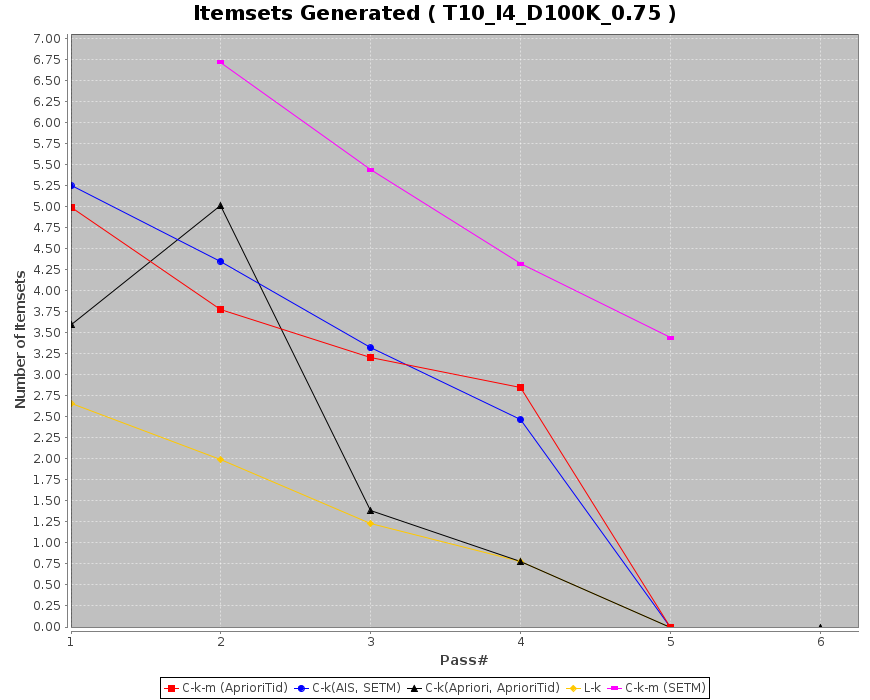
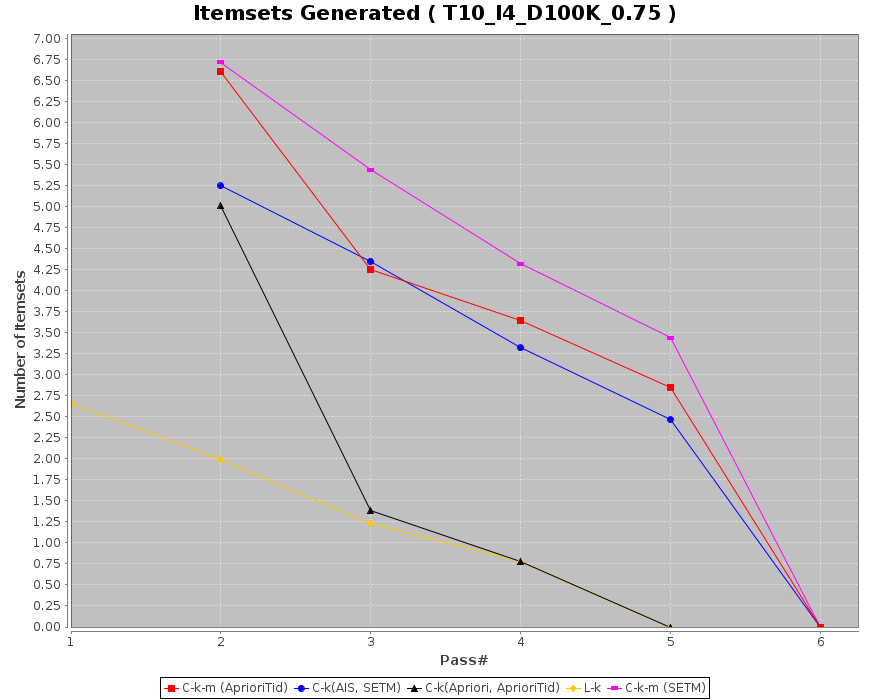
1) Added support for processing large datasets flattening. 2) New correct graphs for number of itemsets generated for varius algorithms.

diff --git a/src/GraphGenerator.java b/src/GraphGenerator.java
@@ -55,7 +55,6 @@ public class GraphGenerator {
 		largeItemsetsMap.put(5, 0);
 
 		Map<Integer, Integer> candAprioriAndTID = Maps.newHashMap();
-		candAprioriAndTID.put(1, 4000);
 		candAprioriAndTID.put(2, 101926);
 		candAprioriAndTID.put(3, 24);
 		candAprioriAndTID.put(4, 6);
@@ -63,24 +62,25 @@ public class GraphGenerator {
 		candAprioriAndTID.put(6, 0);
 
 		Map<Integer, Integer> candAISSETMMap = Maps.newHashMap();
-		candAISSETMMap.put(1, 176764);
-		candAISSETMMap.put(2, 22459);
-		candAISSETMMap.put(3, 2089);
-		candAISSETMMap.put(4, 293);
-		candAISSETMMap.put(5, 0);
+		candAISSETMMap.put(2, 176764);
+		candAISSETMMap.put(3, 22459);
+		candAISSETMMap.put(4, 2089);
+		candAISSETMMap.put(5, 293);
+		candAISSETMMap.put(6, 0);
 
 		Map<Integer, Integer> candBarAprioriTID = Maps.newHashMap();
-		candBarAprioriTID.put(1, 98062);
-		candBarAprioriTID.put(2, 5953);
-		candBarAprioriTID.put(3, 1624);
-		candBarAprioriTID.put(4, 707);
-		candBarAprioriTID.put(5, 0);
+		candBarAprioriTID.put(2, 3990440);
+		candBarAprioriTID.put(3, 17629);
+		candBarAprioriTID.put(4, 4456);
+		candBarAprioriTID.put(5, 707);
+		candBarAprioriTID.put(6, 0);
 
 		Map<Integer, Integer> candBarSETM = Maps.newHashMap();
 		candBarSETM.put(2, 5213187);
 		candBarSETM.put(3, 274419);
 		candBarSETM.put(4, 21011);
 		candBarSETM.put(5, 2742);
+		candBarSETM.put(6, 0);
 		
 		itemsetsSizeMap.put("L-k", largeItemsetsMap);
 		itemsetsSizeMap.put("C-k(Apriori, AprioriTid)", candAprioriAndTID);

diff --git a/src/bootstrap/FilePreProcessorUtils.java b/src/bootstrap/FilePreProcessorUtils.java
@@ -20,10 +20,10 @@ import com.google.common.collect.Maps;
  */
 public class FilePreProcessorUtils {
 
-	private static String inputFileLoc = "/home/shishir/DMProject/resources/synthetic_data_generator/T5.I2.D10000K.raw";//args[0]; // Complete source file path as input
-	private static String outputFileLoc = "/home/shishir/workspace/DMProject/data/T5.I2.D10000K"; //args[1]; // Complete destination file path as input
+	private static String inputFileLoc = "/home/shishir/DMProject/resources/synthetic_data_generator/T20.I6.D10000K.raw";//args[0]; // Complete source file path as input
+	private static String outputFileLoc = "/home/shishir/workspace/DMProject/data/T20.I6.D10000K"; //args[1]; // Complete destination file path as input
 
-	private static int batchWriteThreshold = 5000;
+	private static int batchWriteThreshold = 10000;
 	
 	public static void main(String[] args) throws IOException{
 		readAndBatchWriteTxnLines(inputFileLoc);

diff --git a/src/algos/AprioriTid.java b/src/algos/AprioriTid.java
@@ -42,7 +42,7 @@ public class AprioriTid {
 	
 	public static void main(String[] args)
 	{
-		runExperiment(Dataset.T5_I2_D100K, MinSup.POINT_TWO_FIVE_PERCENT);
+		runExperiment(Dataset.T10_I4_D100K, MinSup.POINT_SEVEN_FIVE_PERCENT);
 	}
 	
 	/* 
@@ -184,7 +184,11 @@ public class AprioriTid {
 			}
 
 			candidateItemsetsCountPerPass.add(candidateItemsets[k].getItemsets().length);
-			candidateItemsetsBarCountPerPass.add(candidateItemsetBars[k].getItemsetbars().size());
+			int numCandSetsInItemsetBar = 0;
+			for(ItemSetBar itemsetbar : candidateItemsetBars[k].getItemsetbars()) {
+				numCandSetsInItemsetBar += itemsetbar.getCandidateItemsetId().size();
+			}
+			candidateItemsetsBarCountPerPass.add(numCandSetsInItemsetBar);
 		}
 		
 		try {

diff --git a/src/algos/AIS.java b/src/algos/AIS.java
@@ -30,7 +30,7 @@ public class AIS {
 
 	public static void main(String[] args)
 	{
-		runExperiment(Dataset.T5_I2_D100K, MinSup.POINT_TWO_FIVE_PERCENT);
+		runExperiment(Dataset.T10_I4_D100K, MinSup.POINT_SEVEN_FIVE_PERCENT);
 	}
 
 	/*
@@ -74,7 +74,7 @@ public class AIS {
 		List<ItemSet> largeItemsets = MiningUtils.getInitialLargeItemsets(reader, minSupportCount);
 
 		int currItemsetSize = 1;
-	
+		
 		while(!largeItemsets.isEmpty()) {
 			// Write large itemsets to file
 			try {

diff --git a/src/algos/Apriori.java b/src/algos/Apriori.java
@@ -41,7 +41,7 @@ public class Apriori {
 	
 	public static void main(String[] args)
 	{
-		runExperiment(Dataset.T5_I2_D100K, MinSup.POINT_TWO_FIVE_PERCENT);
+		runExperiment(Dataset.T10_I4_D100K, MinSup.POINT_SEVEN_FIVE_PERCENT);
 	}
 
 	/*

diff --git a/src/algos/SETM.java b/src/algos/SETM.java
@@ -28,7 +28,7 @@ public class SETM {
 
 	public static void main(String[] args)
 	{
-		runExperiment(Dataset.T5_I2_D100K, MinSup.POINT_TWO_FIVE_PERCENT);
+		runExperiment(Dataset.T10_I4_D100K, MinSup.POINT_SEVEN_FIVE_PERCENT);
 	}
 
 	/*
